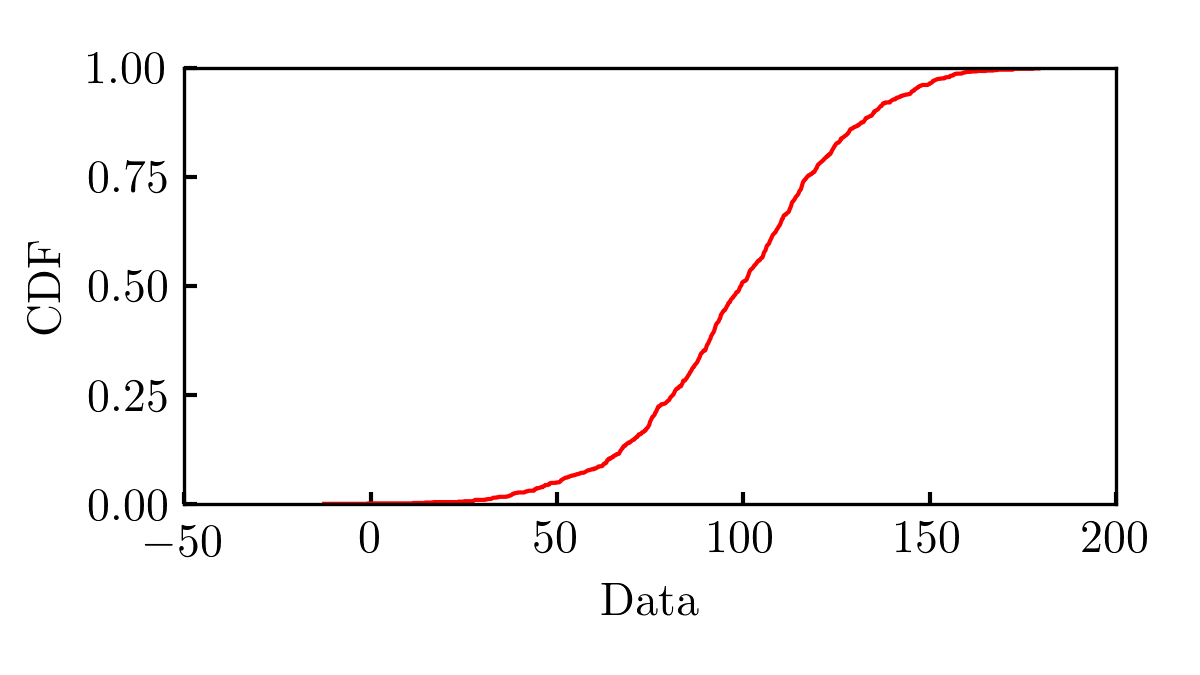
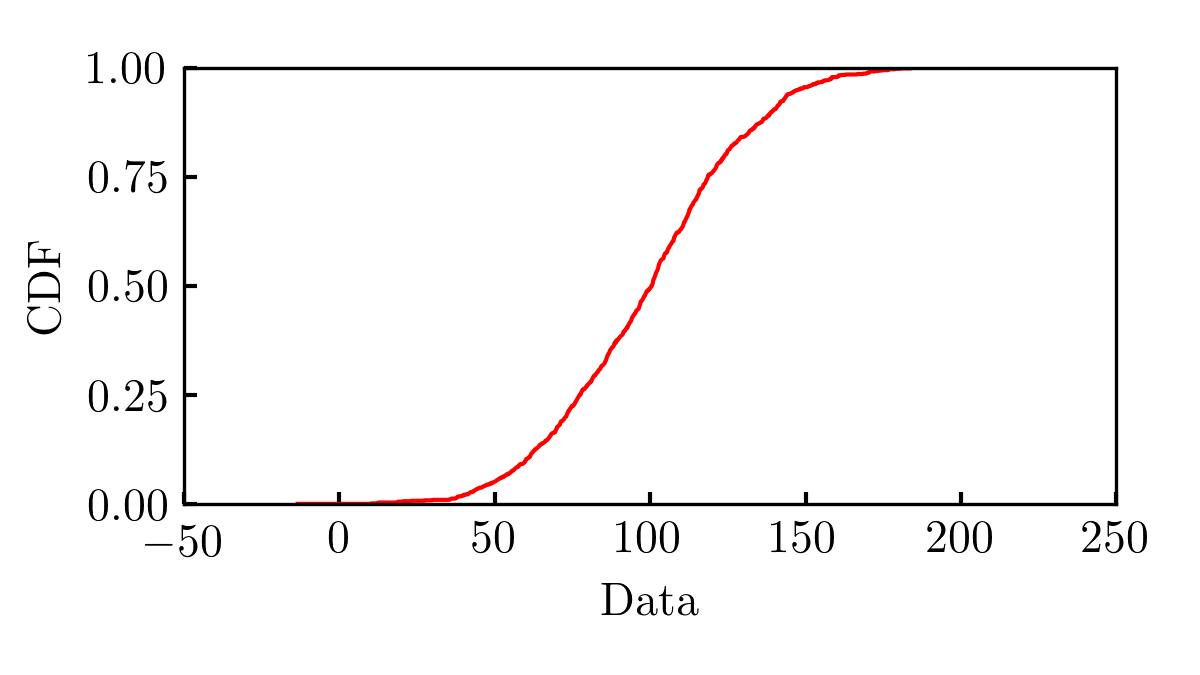
fixed CDF initials

diff --git a/fastplot/__init__.py b/fastplot/__init__.py
@@ -101,10 +101,13 @@ def plot(data, path, mode = 'line',
             e = ECDF(s)
             if xscale == 'log':
                 x = np.logspace(np.log10(min(s)), np.log10(max(s)), NUM_BIN_CDF )
+                y = e(x)
             else:
                 x = np.linspace(min(s), max(s), NUM_BIN_CDF )  
+                y = e(x)
+                np.concatenate( np.array([min(s)]), x )
+                np.concatenate( np.array([0]), y )
 
-            y = e(x)
             plt.plot(x,y, label=s_name, linewidth = linewidth, **plot_args)
 
         if ylabel is None:
